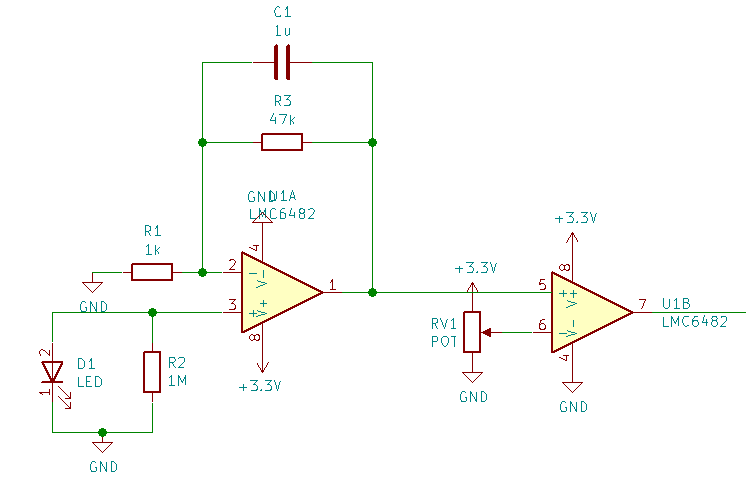
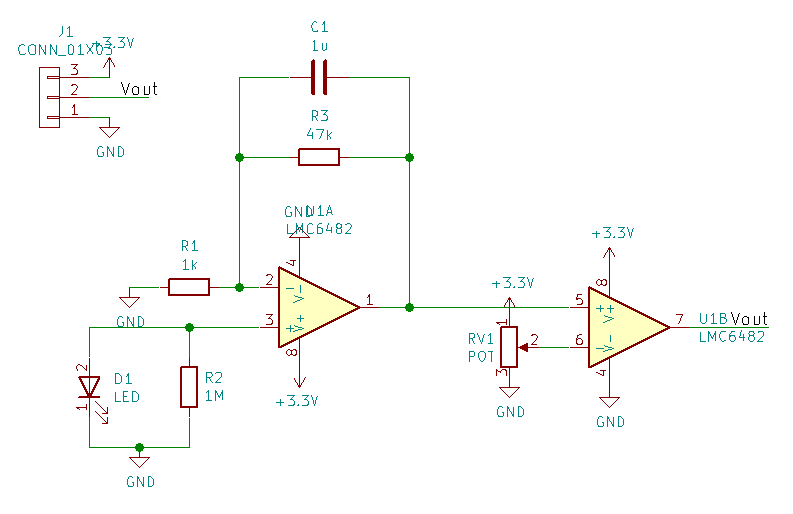
Update PCB lab
Make an Othermill board instead of an Arduino shield.

diff --git a/labs/pcb/pcb.rst b/labs/pcb/pcb.rst
@@ -2,54 +2,37 @@
 LED Light Sensor PCB
 ====================
 
-We will be building an Arduino Uno extension module ('shield') with the LED
-light sensor we built during Week 8.
+In this lab, we will build a printed circuit board (PCB) for our LED light
+sensor.
 
 .. contents::
 .. sectnum::
 
-Installing KiCad
-================
-Download and install KiCad:
-http://kicad-pcb.org/download/
-
 
 Getting Started
 ===============
-1. Start KiCad.
+#. `Download and install KiCad <http://kicad-pcb.org/download/>`_.
 
-#. File -> New Project -> New Project From Template
+#. Start KiCad.
 
-#. Create a new folder where you'd like to save your project. Open the
-   directory you just created.
-
-#. Under 'System Templates', select 'Arduino Uno' and press 'OK'.
-
-The following steps are optional:
-
-5. Open the 'Pcbnew' app (3rd from the left). This is the template board with
-   the shield that will fit over the Arduino.
-
-#. View -> 3D Viewer. This is your unpopulated board.
+#. File → New Project → New Project. A prompt will appear asking where to save
+   your project. Choose a name and create your project.
 
 
 Schematic Capture
 =================
-1. Open the 'Eeschema' app (1st from the left). This is a mostly empty
-   schematic populated with the shield connectors.
+#. Open the 'Eeschema' app (1st from the left).
 
 #. We want to add components to build this:
 
    .. image:: led-sensor.png
-      :width: 100%
 
-#. Press 'a' and search for 'LMC6082'. We will be using this instead of the
-   LMC6482 we actually used in lab because KiCad doesn't have this part in
-   its library yet. Open the drop-down and select 'Unit A'. Place the unit on
-   the schematic. Repeat with 'Unit B'. Press 'ESC' to exit insert mode.
+#. Press 'a' and search for 'LMC6482'. If it does not exist, try the
+   'LMC6082'. Open the drop-down and select 'Unit A'. Place the unit on the
+   schematic. Repeat with 'Unit B'. Press 'ESC' to exit insert mode.
 
 #. Flip Unit A horizontally. Right click Unit A of the op amp and Orient
-   Component -> Mirror --.
+   Component → Mirror --.
 
 #. Press 'a' and search for 'R'. Place 3 resistors as shown in the schematic.
    To rotate before placing, press 'r' before placing the component.
@@ -64,6 +47,8 @@ Schematic Capture
 
 #. Place 5 grounds ('GND') as shown.
 
+#. Place a 1×3 connector ('CONN_01x03') as shown.
+
 #. Now we need to hook everything up with wires. Move your mouse to where you
    want to start a wire, press 'w', click around to snap wire, and click on
    a pin to end the wire. Repeat until the schematic is fully captured.
@@ -73,35 +58,43 @@ Schematic Capture
    Omit units.
 
 #. Assign unique numbers to each component. Do this automatically by using
-   Tools -> Annotate Schematic -> Annotate -> OK.
+   Tools → Annotate Schematic → Annotate → OK.
 
 Footprint Assignment
 --------------------
-We need to tell KiCad what our parts look like phyiscally on the board. In
+We need to tell KiCad what our parts look like physically on the board. In
 other words, we need to assign footprints to each symbol.
 
-#. Tools -> Assign Component Footprints. For each unassigned footprint, find
+#. Tools → Assign Component Footprints. For each unassigned footprint, find
    the component below and assign it.
 
    .. image:: led-sensor-footprints.png
-      :width: 100%
 
 
 PCB Layout
 ==========
 #. Open the 'Pcbnew' app (3rd from the left).
 
-#. Make sure you're using the newer Cairo canvas. View -> Cairo Canvas.
+#. Make sure you're using the newer Cairo canvas. View → Cairo Canvas.
 
-#. Tools -> Update PCB from Schematics -> Perform PCB Update -> Close. If
+#. Design Rules → Design Rules → Net Classes Editor. We will be using
+   conservative design rules that can be fabricated using a 1/32" drill bit on
+   an `Othermill <https://support.bantamtools.com/hc/en-us/articles/115003453943-Design-Considerations>`_:
+
+   .. image:: drc.png
+
+#. Design Rules → Layer Setup. At the top left, set Preset Layer Groupings to
+   "Two layers, parts on Back only" with a board thickness of 1.54 mm. Using
+   the Othermill requires that we place the components on the back.
+
+#. Tools → Update PCB from Schematics → Perform PCB Update → Close. If
    this option isn't in your menu, return to the schematic editor and click
-   Tools -> Generate Netlist File -> Generate -> Save -> Replace. Return
-   to the PCBnew and click Tools -> Netlist -> Read Current Netlist -> Yes.
+   Tools → Generate Netlist File → Generate → Save → Replace. Return
+   to the PCBnew and click Tools → Netlist → Read Current Netlist → Yes.
 
 #. In the end we want something that looks like this:
 
    .. image:: led-sensor-pcb.png
-      :width: 100%
 
 #. Move the op amp on the board. Move components by mousing over them and
    typing 'm'. To rotate, type 'r'. Click to place back down.
@@ -121,11 +114,14 @@ PCB Layout
    the text tool and click on your board. Type in your name, press 'OK', and
    place it on the board, rotating it if desired.
 
-#. Once you are finished, perform a Design Rules Check. Tools -> DRC ->
-   Start DRC. KiCad will warn you if there are any errors.
+#. Add edge cuts for the board. Select the 'Edge.Cuts' layer and draw a
+   rectangle that contains all the footprints on your board. You may choose to
+   draw rounded corners, too.
 
-#. Admire your handiwork. View -> 3D Viewer.
+#. Once you are finished, perform a Design Rules Check. Tools → DRC → Start
+   DRC. KiCad will warn you if there are any errors. Correct your design until
+   there are no more DRC violations.
 
-#. Submit your final DRC report file. In Tools -> DRC, check 'Create Report
-   File' and save it to a file on your computer. Re-run the DRC. Copy and
-   paste the result into today's attendance form.
+#. Admire your handiwork. View → 3D Viewer.
+
+#. Show your DRC report to an instructor for check-off.
